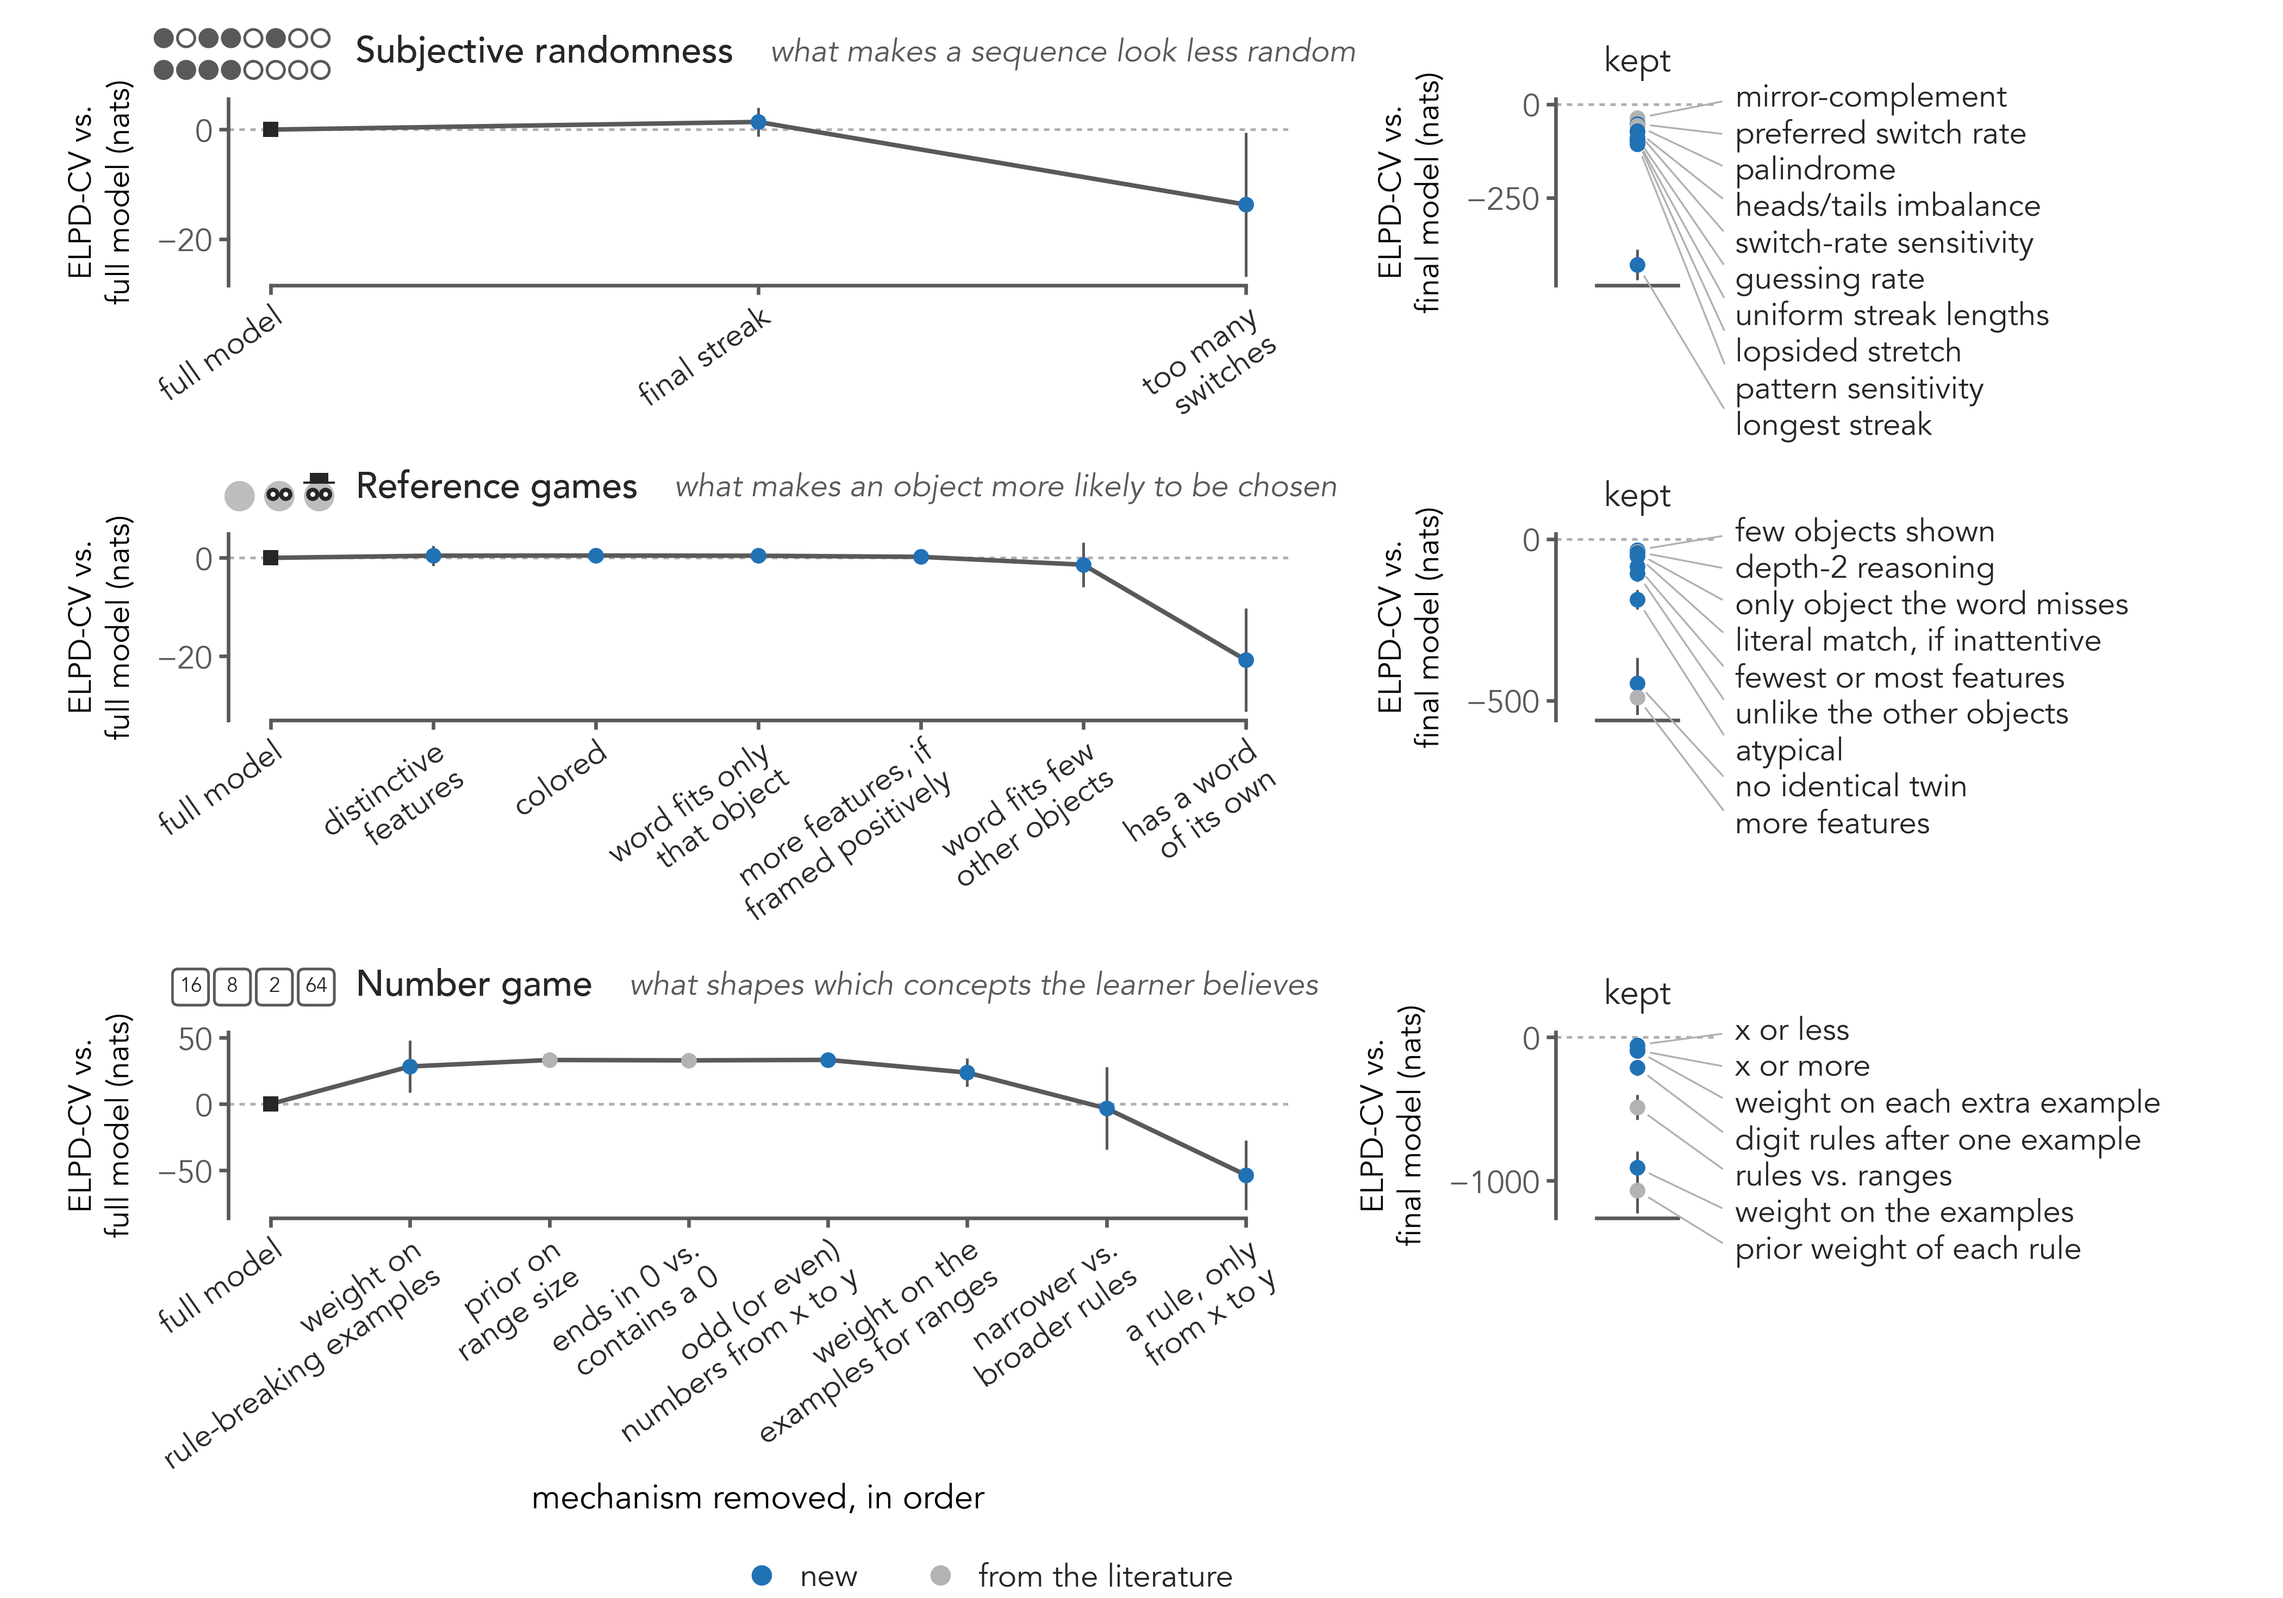
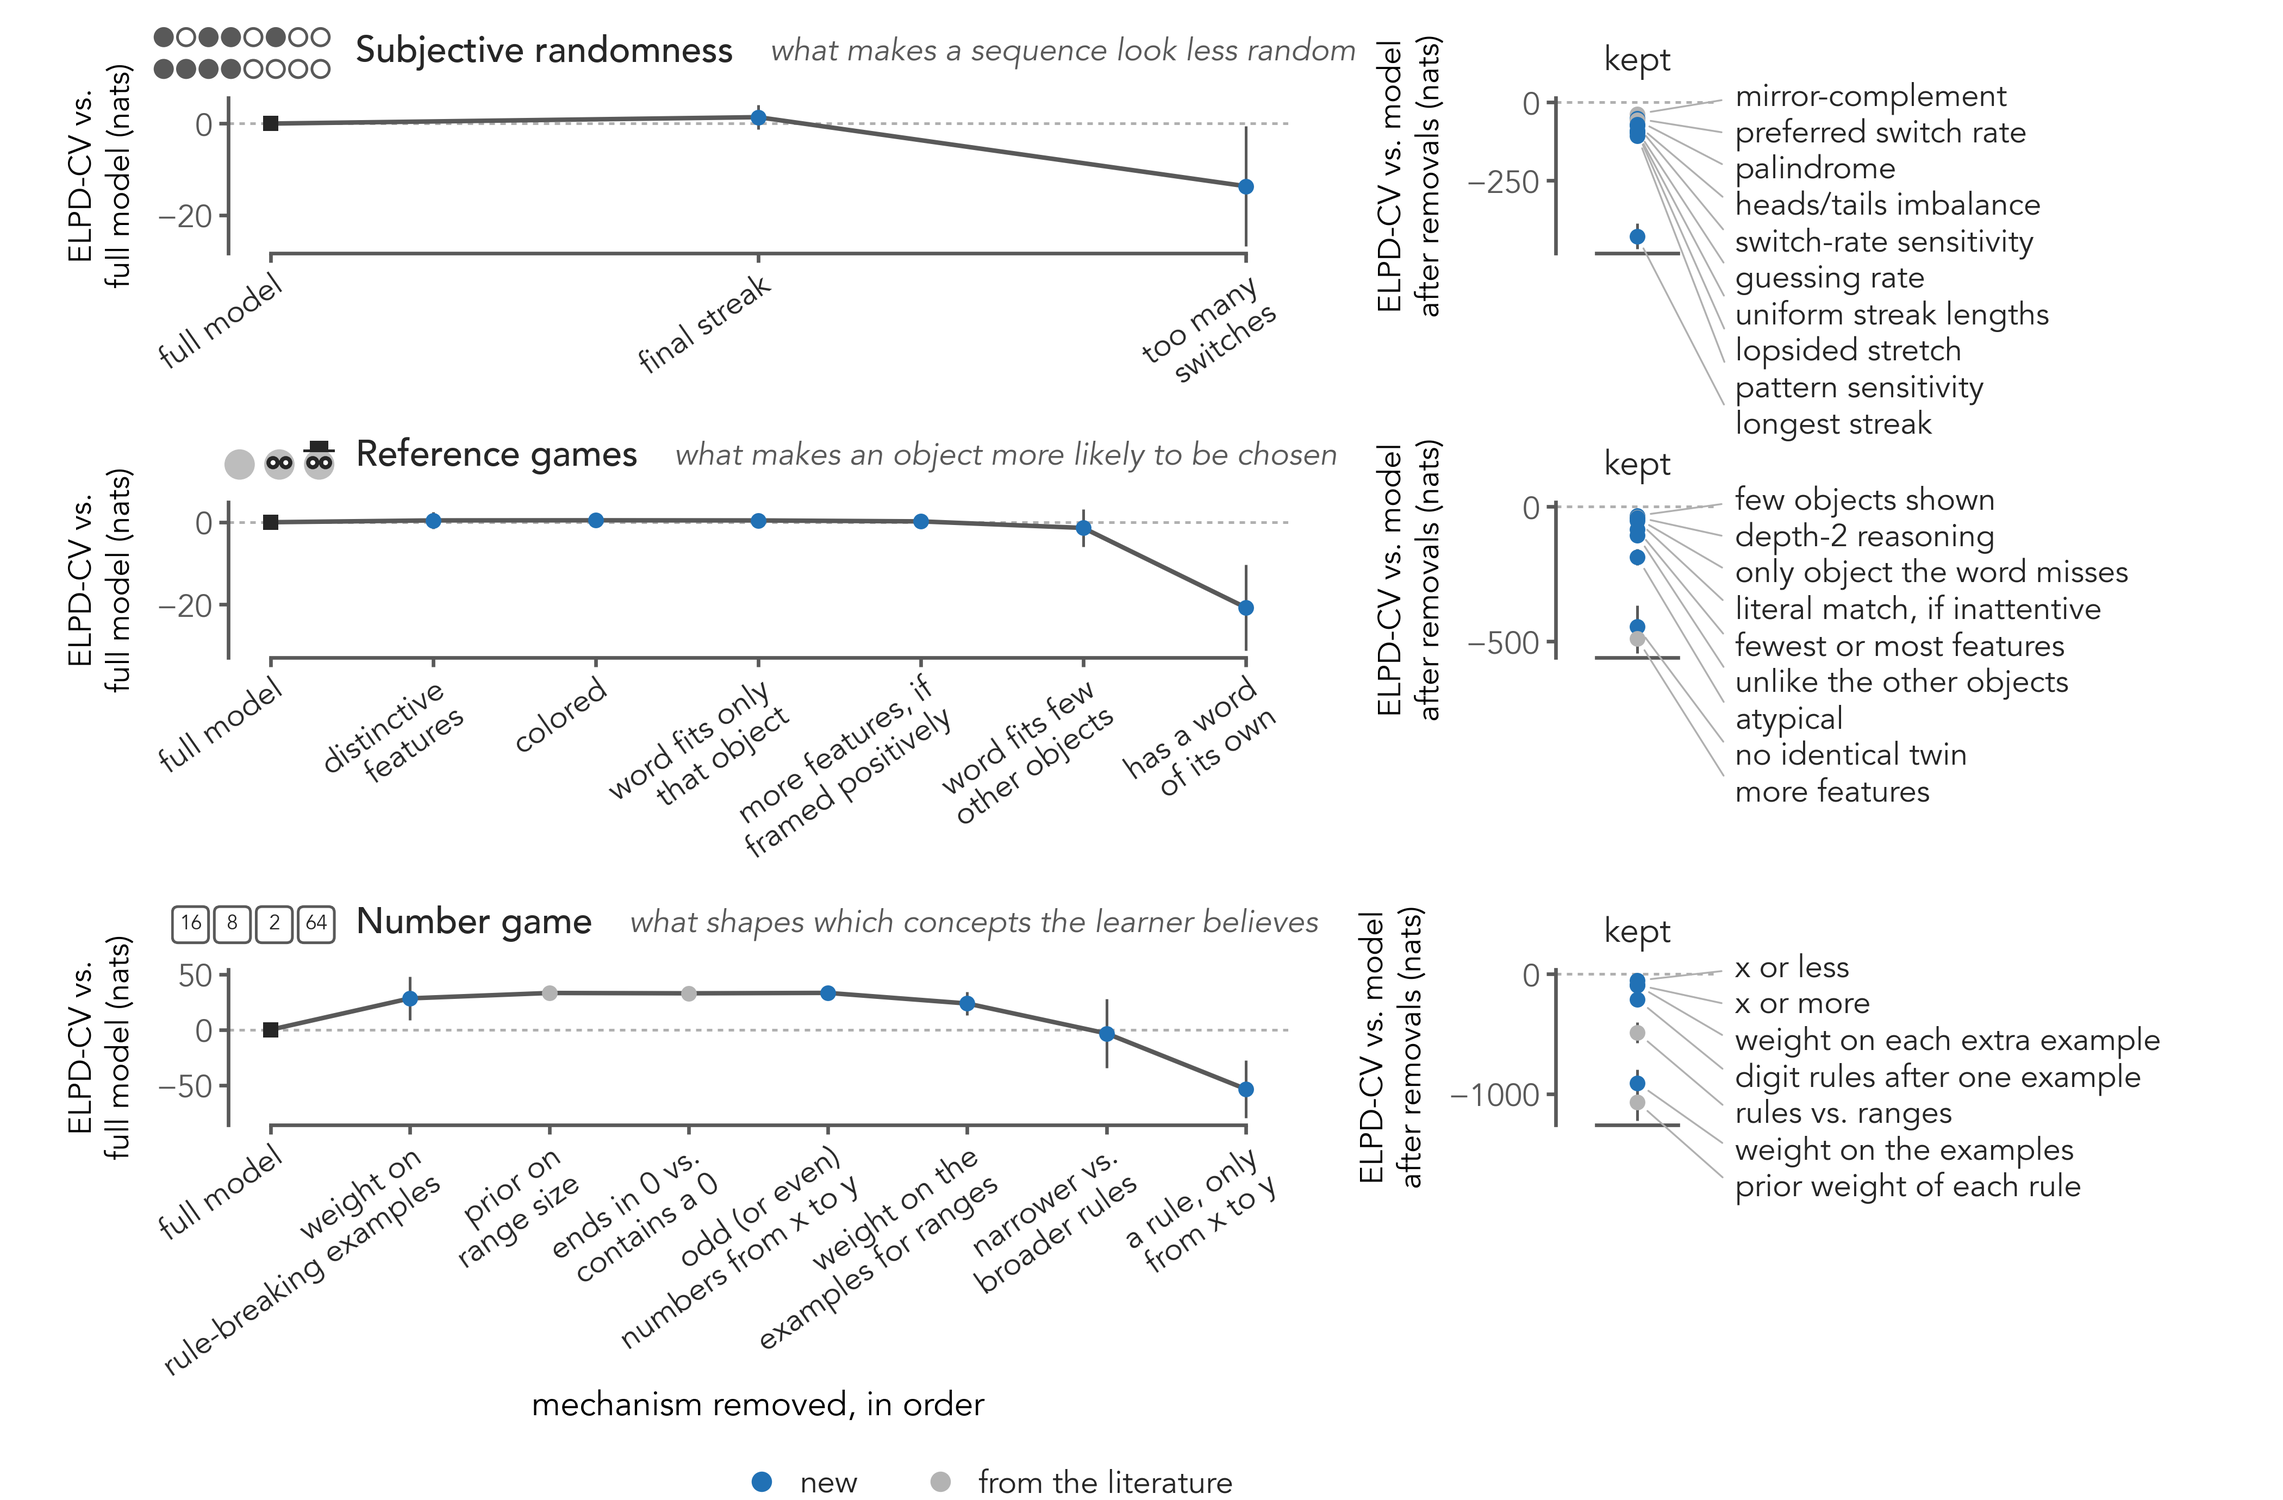
Figure 4: kept column against the 'model after removals'; 4.6 in tall

diff --git a/scripts/paper/figures/fig4.py b/scripts/paper/figures/fig4.py
@@ -34,7 +34,7 @@ LEFT, RIGHT, TICK_DEG = 0.04, 0.04, 35  # shares of the path's axis before the f
 PATH_IN, KEPT_IN, GAP_IN = 3.25, 0.5, 0.82  # widths: the path's axes, the kept column's, between them (inches)
 LEFT_PAD, TOP_PAD, LEGEND_PAD, ROW_GAP = 0.1, 0.01, 0.05, 0.06  # figure shares (left, top, the legend's), inches between rows
 ICON_OVER, ONE_LINE = 0.5, 14  # how far each title's icon reaches over it (title heights); the longest one-line step name
-WIDTH_IN, HEIGHT_IN = 7.0, 4.9  # one row per domain; the saved figure: PNAS's full width
+WIDTH_IN, HEIGHT_IN = 7.0, 4.6  # one row per domain; the saved figure: PNAS's full width
 # each panel's cues are named by what pushes its response this way (the fitted signs: mechanisms.yaml)
 DIRECTION = {"subjective_randomness": "what makes a sequence look less random",
              "rsa": "what makes an object more likely to be chosen",
@@ -172,7 +172,7 @@ def draw_kept(ax, kept, names):
                 ha="center", va="bottom", fontsize=SMALL + 0.5, color=INK)
     ax.tick_params(labelsize=SMALL, length=2, pad=1.5)
     ax.spines["bottom"].set_bounds(-0.25, 0.25)
-    ax.set_ylabel("ELPD-CV vs.\nfinal model (nats)", fontsize=SMALL)
+    ax.set_ylabel("ELPD-CV vs. model\nafter removals (nats)", fontsize=SMALL)
 
 
 def stack_rows(fig, grid):
